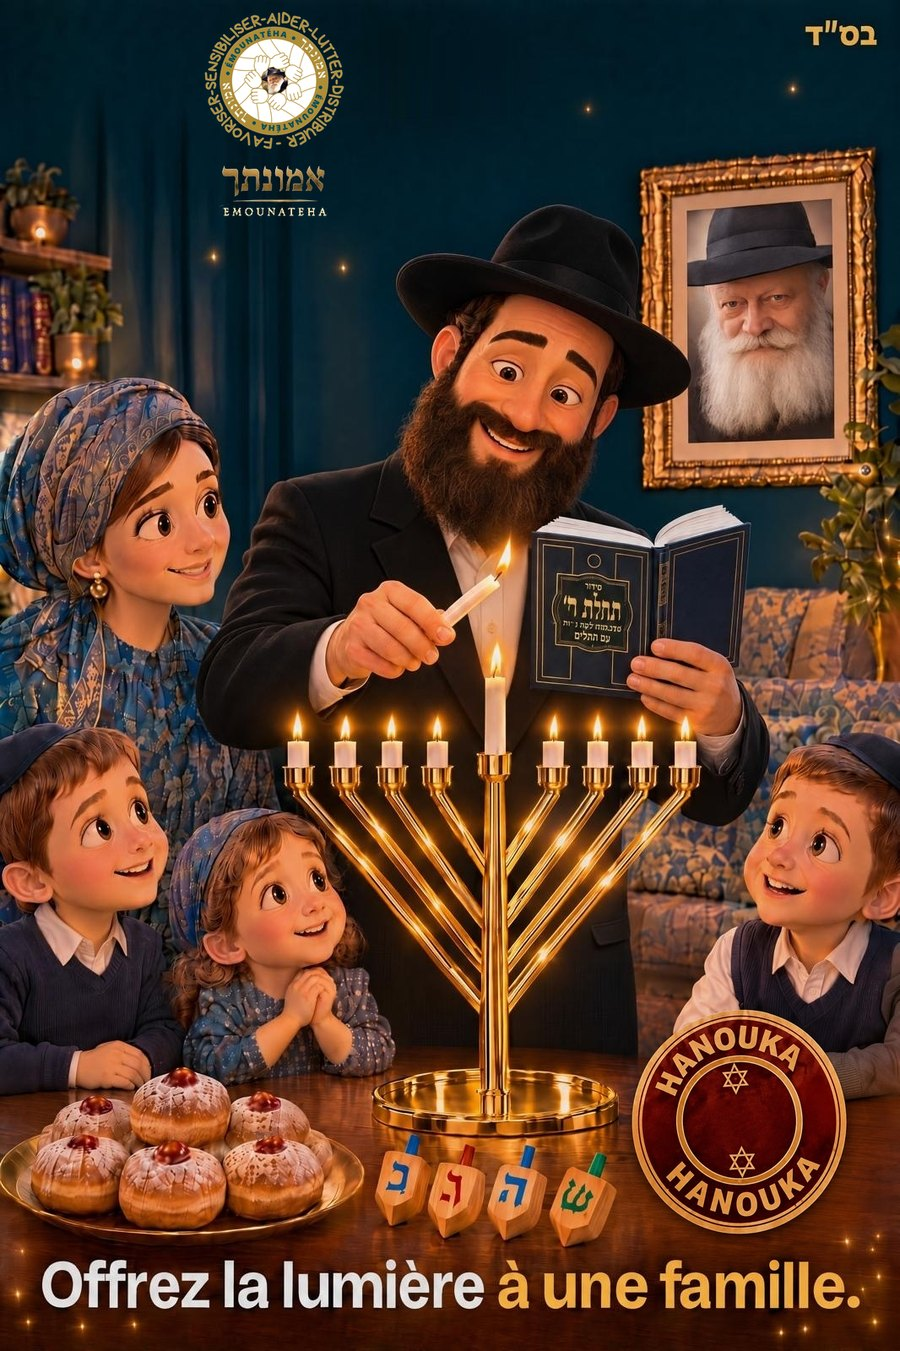
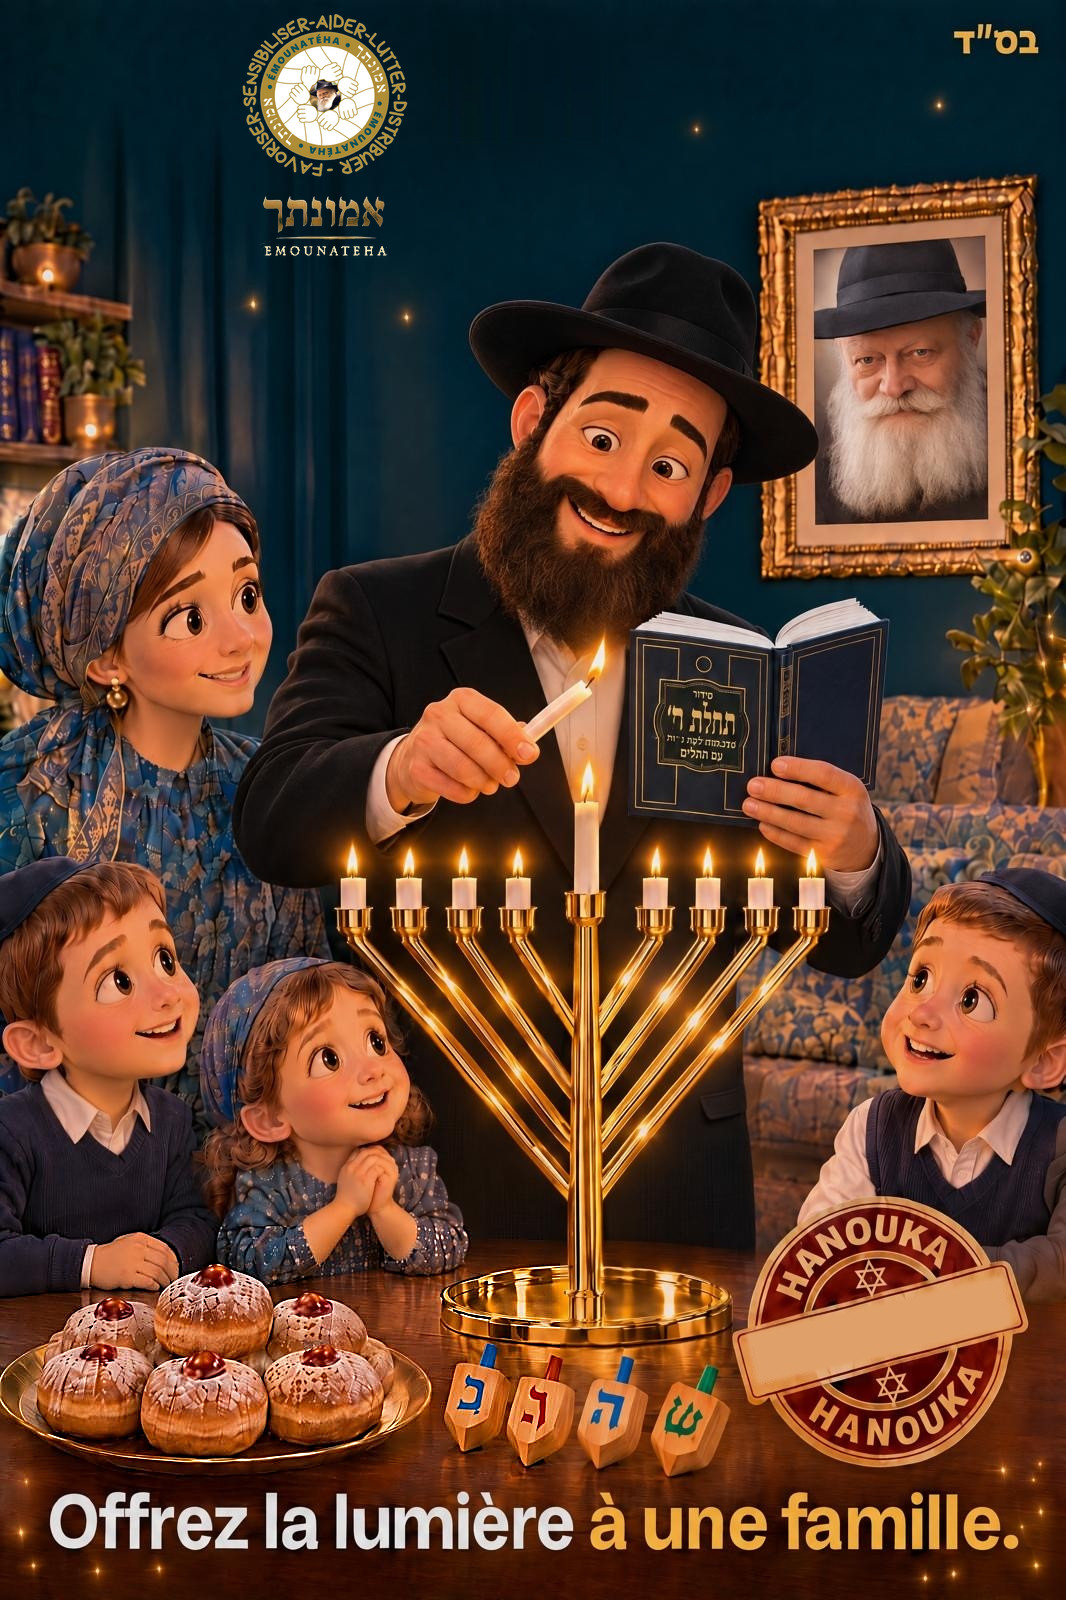
Accueil : section Parole du Rabbi sous les tuiles, banderole Hanouka, bandeau Hanouka aux couleurs du site, icônes Nos actions, flyer plus net, phrase en or
Claude-Session: https://claude.ai/code/session_01FdG1eh9xSuM3X7FBhgGd7p

diff --git a/public/hanouka-annonce.js b/public/hanouka-annonce.js
@@ -7,9 +7,14 @@ var cnt=d>1?'dans <b>'+d+' jours</b>':d===1?'<b>demain soir</b>':d===0?'<b>ce so
 var LINK='/hanouka-lp/';
 var css=document.createElement('style');
 css.textContent=
-'#hnband{display:flex;align-items:center;justify-content:center;gap:10px;flex-wrap:wrap;padding:9px 14px;background:linear-gradient(90deg,#10202b,#1b3140 50%,#10202b);color:#f3d58c;font:600 12px/1.3 Inter,system-ui,sans-serif;letter-spacing:.06em;text-align:center;text-decoration:none;position:sticky;top:0;z-index:120}'+
-'#hnband b{color:#fff;font-weight:700}#hnband u{text-decoration:none;border:1px solid rgba(243,213,140,.55);border-radius:99px;padding:3px 12px;color:#f3d58c}'+
-'#hnband svg{width:16px;height:16px;flex:none}'+
+'#hnband{display:flex;align-items:center;justify-content:center;gap:12px;flex-wrap:nowrap;padding:8px 14px;background:linear-gradient(rgba(22,76,82,.9),rgba(31,106,114,.86)),url(/header.jpg) center/cover #1f6a72;color:#fff;font:600 13px/1.2 Inter,system-ui,sans-serif;text-align:center;text-decoration:none;position:sticky;top:0;z-index:120;border-bottom:1px solid rgba(228,205,138,.7);box-shadow:0 2px 10px rgba(10,40,45,.25);overflow:hidden}'+
+'#hnband::after{content:"";position:absolute;top:0;bottom:0;width:60px;left:-80px;background:linear-gradient(100deg,transparent,rgba(255,255,255,.28),transparent);transform:skewX(-18deg);animation:hnsh 5.5s ease-in-out infinite;pointer-events:none}'+
+'@keyframes hnsh{0%,70%{left:-80px}100%{left:110%}}'+
+'#hnband .t{font:700 13px/1 Cinzel,Georgia,serif;letter-spacing:.1em;color:#e4cd8a;text-transform:uppercase;white-space:nowrap}'+
+'#hnband .c{font:500 13px/1 Inter,system-ui,sans-serif;color:#fff;white-space:nowrap}#hnband .c b{color:#e4cd8a;font-weight:700}'+
+'#hnband .m{width:22px;height:22px;flex:none}'+
+'#hnband u{text-decoration:none;white-space:nowrap;border-radius:99px;padding:6px 14px;background:linear-gradient(180deg,#e4cd8a,#c4a24a);color:#16393e;font:700 12px/1 Inter,system-ui,sans-serif;box-shadow:0 2px 8px rgba(0,0,0,.25)}'+
+'@media(max-width:420px){#hnband{gap:8px;padding:7px 10px}#hnband .t{font-size:11.5px;letter-spacing:.07em}#hnband .c{font-size:12px}#hnband u{padding:6px 11px;font-size:11.5px}#hnband .m{width:19px;height:19px}}'+
 '#hnov{position:fixed;inset:0;z-index:2000;display:flex;align-items:center;justify-content:center;padding:18px;background:rgba(8,14,20,.72);-webkit-backdrop-filter:blur(3px);backdrop-filter:blur(3px);opacity:0;transition:opacity .4s}'+
 '#hnov.on{opacity:1}'+
 '#hnc{position:relative;display:flex;flex-direction:column;align-items:center;gap:12px;max-height:94vh;transform:translateY(24px) scale(.95);transition:transform .55s cubic-bezier(.2,.8,.2,1)}'+
@@ -20,10 +25,10 @@ css.textContent=
 '#hnc .go{display:block;padding:13px 40px;border-radius:99px;background:linear-gradient(180deg,#f3d58c,#c9973f);color:#1b1407;font:700 13px/1 Inter,system-ui,sans-serif;letter-spacing:.08em;text-decoration:none;box-shadow:0 6px 20px rgba(201,151,63,.4)}'+
 '#hnc .x{position:absolute;top:-46px;right:0;width:36px;height:36px;border-radius:50%;border:0;background:#fff;color:#222;font-size:22px;line-height:36px;cursor:pointer;z-index:2;box-shadow:0 2px 10px rgba(0,0,0,.4)}';
 document.head.appendChild(css);
-var flame='<svg viewBox="0 0 24 24" fill="#f3d58c" aria-hidden="true"><path d="M12 2c1 3-2 4-2 7a3 3 0 0 0 6 0c0-1.2-.5-2-1-3 3 1.5 5 4 5 7.5A8 8 0 0 1 4 15.500C4 10 9 8 12 2z"/></svg>';
+var flame='<svg class="m" viewBox="0 0 32 32" aria-hidden="true"><g fill="#e4cd8a"><rect x="14.6" y="4" width="2.8" height="9" rx="1.2"/><rect x="3" y="9" width="2.2" height="6" rx="1"/><rect x="7.4" y="9" width="2.2" height="6" rx="1"/><rect x="11" y="9" width="2.2" height="6" rx="1"/><rect x="18.8" y="9" width="2.2" height="6" rx="1"/><rect x="22.4" y="9" width="2.2" height="6" rx="1"/><rect x="26.8" y="9" width="2.2" height="6" rx="1"/></g><g fill="#fff6d6"><ellipse cx="16" cy="2.6" rx="1.5" ry="2.2"/></g><path d="M3 16h26M16 14v10M10 28h12" stroke="#e4cd8a" stroke-width="2" fill="none" stroke-linecap="round"/><path d="M4 16c0 6 6 9 12 9s12-3 12-9" stroke="#e4cd8a" stroke-width="2" fill="none" stroke-linecap="round"/></svg>';
 /* bandeau permanent */
 var b=document.createElement('a');b.id='hnband';b.href=LINK;
-b.innerHTML=flame+'<span>Hanouka '+cnt+'</span><u>Offrir un colis</u>';
+b.innerHTML=flame+'<span class="t">Hanouka</span><span class="c">'+cnt+'</span><u>Offrir un colis</u>';
 function mountBand(){document.body.insertBefore(b,document.body.firstChild);
   /* bandeau toujours visible : la barre de menu se cale juste en dessous */
   function fit(){var n=document.querySelector('.sec-nav');if(n&&n.style)n.style.top=b.offsetHeight+'px'}
@@ -35,14 +40,26 @@ var stamp=d>1?'DANS '+d+' JOURS':d===1?'DEMAIN SOIR':d===0?'CE SOIR':'C’EST HA
 function open(){
   if(document.getElementById('hnov'))return;
   var o=document.createElement('div');o.id='hnov';o.setAttribute('role','dialog');o.setAttribute('aria-modal','true');o.setAttribute('aria-label','Affiche Hanouka 5787');
-  o.innerHTML='<div id="hnc"><button class="x" aria-label="Fermer" type="button">×</button><div class="fw"><img src="/hanouka/affiche.jpg?v=17" alt="Hanouka — Offrez la lumière à une famille"><span class="st" aria-hidden="true">'+stamp+'</span></div><a class="go" href="'+LINKDON+'">Je participe</a></div>';
+  o.innerHTML='<div id="hnc"><button class="x" aria-label="Fermer" type="button">×</button><div class="fw"><img src="/hanouka/affiche.jpg?v=19" alt="Hanouka — Offrez la lumière à une famille"><span class="st" aria-hidden="true">'+stamp+'</span></div><a class="go" href="'+LINKDON+'">Je participe</a></div>';
   document.body.appendChild(o);requestAnimationFrame(function(){requestAnimationFrame(function(){o.classList.add('on')})});
   function close(){o.classList.remove('on');setTimeout(function(){o.remove()},400);try{sessionStorage.setItem('hnseen','1')}catch(e){}}
   var im=o.querySelector('img'),st=o.querySelector('.st');function fit(){st.style.fontSize=(im.clientWidth*0.0325)+'px'}if(im.complete)fit();im.addEventListener('load',fit);window.addEventListener('resize',fit);
   o.querySelector('.x').onclick=close;o.addEventListener('click',function(e){if(e.target===o)close()});
   document.addEventListener('keydown',function k(e){if(e.key==='Escape'){close();document.removeEventListener('keydown',k)}});
 }
+window.hnOpen=open;
 b.addEventListener('click',function(e){e.preventDefault();open()});
+/* banderole Hanouka sous la citation du Rabbi */
+function mountBanner(){
+  var r=document.querySelector('.hero .quote');if(!r||document.getElementById('hnbanner'))return;
+  var st=document.createElement('style');
+  st.textContent='#hnbanner{display:block;order:9;width:min(100%,760px);margin:18px auto 0;border-radius:22px;overflow:hidden;box-shadow:0 10px 28px rgba(8,20,28,.35),0 0 0 1px rgba(243,213,140,.35);position:relative;z-index:2;-webkit-tap-highlight-color:transparent;transition:transform .2s}#hnbanner:active{transform:scale(.985)}html body .hero #hnbanner img{display:block;width:100%;height:auto;margin:0;filter:none;animation:none;max-width:none}@media(max-width:800px){#hnbanner{width:calc(100% - 4px);margin-top:16px;border-radius:18px}}';
+  document.head.appendChild(st);
+  var a=document.createElement('a');a.id='hnbanner';a.href='/don/';a.setAttribute('aria-label','Hanouka 5787 : offrez la lumière à une famille, colis de fête 130 euros');
+  a.innerHTML='<img src="/hanouka/banderole.jpg?v=2" alt="Hanouka 5787 — Offrez la lumière à une famille. Un colis de fête livré avant la première bougie. Pour 130 € · Émounatéha × AlloDons" width="1046" height="262" loading="eager">';
+  a.addEventListener('click',function(e){if(window.hnOpen){e.preventDefault();window.hnOpen()}});
+  r.parentNode.insertBefore(a,r.nextSibling)}
+if(document.readyState!=='loading')mountBanner();else document.addEventListener('DOMContentLoaded',mountBanner);
 try{if(sessionStorage.getItem('hnseen'))return}catch(e){}
 setTimeout(open,4500);
 })();

diff --git a/public/index.html b/public/index.html
@@ -477,9 +477,9 @@ body{overflow-x:hidden}
 </style>
 <link rel="stylesheet" href="/mobile.css">
 <link rel="stylesheet" href="/fade.css?v=3">
-<link rel="stylesheet" href="/typo.css?v=21">
+<link rel="stylesheet" href="/typo.css?v=25">
 <script src="/typo.js?v=5" defer></script>
-<script src="/hanouka-annonce.js?v=23" defer></script>
+<script src="/hanouka-annonce.js?v=30" defer></script>
 <script src="/wa-bouton.js?v=2" defer></script>
 </head>
 <body>
@@ -493,7 +493,6 @@ body{overflow-x:hidden}
     <div class="rule"></div>
     <p class="slogan">Sensibiliser · Aider · Lutter · Distribuer · Favoriser</p>
     <p class="quote">Accueillons Mashia'h avec des actes de bonté et de bienveillance&nbsp;!</p>
-    <blockquote class="rebbe">« Rien n'est jamais perdu. On peut toujours réparer. Celui qui est impur ou éloigné, même s'il est responsable d'un tel état de fait, même s'il l'a voulu, peut, malgré tout, réparer. »<cite>Rabbi de Loubavitch</cite></blockquote>
     <div class="btns">
       <a class="btn gold" href="/don/">Aidez-nous à les aider</a>
       <a class="btn line" href="#actions">Nos actions</a>
@@ -507,6 +506,7 @@ body{overflow-x:hidden}
   <a href="/horaires/"><img class="qi" src="/tuiles/horaires.png?v=3" alt="" width="40" height="40" loading="eager"><span>Horaires<small>Chabbat, 54 villes</small></span></a>
   <a href="https://wa.me/33669670770" target="_blank" rel="noopener"><img class="qi" src="/tuiles/ecrire.png?v=3" alt="" width="40" height="40" loading="eager"><span>Nous écrire<small>Sur WhatsApp</small></span></a>
 </div></section>
+<section class="parole" id="parole" aria-label="Parole du Rabbi"><div class="wrap"><h2>Parole du Rabbi</h2><div class="gline"></div><blockquote class="rebbe">« Rien n'est jamais perdu. On peut toujours réparer. Celui qui est impur ou éloigné, même s'il est responsable d'un tel état de fait, même s'il l'a voulu, peut, malgré tout, réparer. »<cite>Rabbi de Loubavitch</cite></blockquote></div></section>
 <section class="parsec" id="paracha" hidden><div class="wrap"><div class="parcard" id="parcard">
   <div class="pk"><svg class="torah" viewBox="0 0 64 64" aria-hidden="true"><g fill="none" stroke="#c4a24a" stroke-width="2.6" stroke-linecap="round" stroke-linejoin="round"><rect x="10" y="12" width="9" height="40" rx="4.5" fill="#c4a24a"/><rect x="45" y="12" width="9" height="40" rx="4.5" fill="#c4a24a"/><path d="M14.5 12V7M14.5 52v5M49.5 12V7M49.5 52v5"/><path d="M19 16h26v32H19z" fill="#fff"/><path d="M25 24h14M25 30h14M25 36h10" stroke="#1f6a72"/></g><circle cx="14.5" cy="6" r="2.6" fill="#e4cd8a"/><circle cx="49.5" cy="6" r="2.6" fill="#e4cd8a"/></svg><div><span class="plab">Paracha de la semaine</span><b id="parname">…</b><small id="parheb" dir="rtl"></small></div></div>
   <div class="pt"><span class="plab">Entrée du Chabbat</span><b id="parin">…</b><small id="parinday"></small></div>
@@ -530,10 +530,10 @@ body{overflow-x:hidden}
     <div class="slider">
       <div class="slides" id="slides">
         <div class="slide" data-t="Nos actions" data-s="Un accompagnement concret, du premier repas jusqu'au retour à l'autonomie."><div class="wrap"><div class="grid">
-      <div class="card"><div class="ic"><svg viewBox="0 0 24 24" width="26" height="26" fill="none" stroke="currentColor" stroke-width="1.8" stroke-linecap="round" stroke-linejoin="round" aria-hidden="true"><path d="M16 21v-2a4 4 0 0 0-4-4H6a4 4 0 0 0-4 4v2"/><circle cx="9" cy="7" r="4"/><path d="M22 21v-2a4 4 0 0 0-3-3.87"/><path d="M16 3.13a4 4 0 0 1 0 7.75"/></svg></div><h3>Réinsertion sociale</h3><p>Un suivi personnalisé pour retrouver un équilibre et une place dans la société.</p></div>
-      <div class="card"><div class="ic"><svg viewBox="0 0 24 24" width="26" height="26" fill="none" stroke="currentColor" stroke-width="1.8" stroke-linecap="round" stroke-linejoin="round" aria-hidden="true"><path d="M20.38 3.46 16 2a4 4 0 0 1-8 0L3.62 3.46a2 2 0 0 0-1.34 2.23l.58 3.47a1 1 0 0 0 .99.84H6v10c0 1.1.9 2 2 2h8a2 2 0 0 0 2-2V10h2.15a1 1 0 0 0 .99-.84l.58-3.47a2 2 0 0 0-1.34-2.23z"/></svg></div><h3>Vêtements &amp; soins</h3><p>De nouveaux vêtements, une coiffure : se sentir bien pour repartir du bon pied.</p></div>
-      <div class="card"><div class="ic"><svg viewBox="0 0 24 24" width="26" height="26" fill="none" stroke="currentColor" stroke-width="1.8" stroke-linecap="round" stroke-linejoin="round" aria-hidden="true"><path d="M15 21v-8a1 1 0 0 0-1-1h-4a1 1 0 0 0-1 1v8"/><path d="M3 10a2 2 0 0 1 .709-1.528l7-5.999a2 2 0 0 1 2.582 0l7 5.999A2 2 0 0 1 21 10v9a2 2 0 0 1-2 2H5a2 2 0 0 1-2-2z"/></svg></div><h3>Un toit sur la tête</h3><p>Aider à trouver un logement et à sortir de la rue durablement.</p></div>
-      <div class="card"><div class="ic"><svg viewBox="0 0 24 24" width="26" height="26" fill="none" stroke="currentColor" stroke-width="1.8" stroke-linecap="round" stroke-linejoin="round" aria-hidden="true"><path d="M19 14c1.49-1.46 3-3.21 3-5.5A5.5 5.5 0 0 0 16.5 3c-1.76 0-3 .5-4.5 2-1.5-1.5-2.74-2-4.5-2A5.5 5.5 0 0 0 2 8.5c0 2.3 1.5 4.05 3 5.5l7 7Z"/></svg></div><h3>Soutien moral &amp; financier</h3><p>Une écoute, un accompagnement et une aide matérielle quand c'est le plus difficile.</p></div>
+      <div class="card"><div class="ic"><img src="/tuiles/act-reinsertion.png?v=1" alt="" width="48" height="48" loading="lazy"></div><h3>Réinsertion sociale</h3><p>Un suivi personnalisé pour retrouver un équilibre et une place dans la société.</p></div>
+      <div class="card"><div class="ic"><img src="/tuiles/act-vetements.png?v=1" alt="" width="48" height="48" loading="lazy"></div><h3>Vêtements &amp; soins</h3><p>De nouveaux vêtements, une coiffure : se sentir bien pour repartir du bon pied.</p></div>
+      <div class="card"><div class="ic"><img src="/tuiles/act-toit.png?v=1" alt="" width="48" height="48" loading="lazy"></div><h3>Un toit sur la tête</h3><p>Aider à trouver un logement et à sortir de la rue durablement.</p></div>
+      <div class="card"><div class="ic"><img src="/tuiles/act-soutien.png?v=1" alt="" width="48" height="48" loading="lazy"></div><h3>Soutien moral &amp; financier</h3><p>Une écoute, un accompagnement et une aide matérielle quand c'est le plus difficile.</p></div>
     </div></div></div>
       </div>
       

diff --git a/public/typo.css b/public/typo.css
@@ -34,3 +34,16 @@ html body .pagehead h1{line-height:1.2;letter-spacing:.05em;font-size:clamp(22px
 @media(max-width:800px){
   html body .qa a .qi{width:40px;height:40px;object-fit:contain;flex:none;filter:drop-shadow(0 2px 3px rgba(120,90,30,.25))}
 }
+/* Nos actions : icônes 3D Pixar (couleurs du site) */
+html body #actions .card .ic{background:none;width:auto;height:auto;border-radius:0;display:block;margin-bottom:8px}
+html body #actions .card .ic img{display:block;width:56px;height:56px;object-fit:contain;filter:drop-shadow(0 2px 3px rgba(120,90,30,.22))}
+@media(max-width:800px){html body #actions .card .ic img{width:44px;height:44px}}
+/* « Accueillons Mashia'h… » en or */
+html body .hero .quote{font-family:'Cinzel',Georgia,serif;font-weight:700;letter-spacing:.06em;color:#c4a24a;font-size:clamp(13px,1.7vw,17px);line-height:1.5;text-shadow:0 2px 10px rgba(0,0,0,.25)}
+@media(max-width:800px){html body .hero .quote{font-size:12.5px;letter-spacing:.04em}}
+/* Section « Parole du Rabbi » (sous les tuiles) */
+html body .parole{padding:26px 0 6px;text-align:center}
+html body .parole h2{font-size:clamp(20px,5.4vw,26px);margin:0 0 8px;color:var(--teal)}
+html body .parole .gline{width:64px;height:3px;border-radius:3px;margin:0 auto 14px;background:linear-gradient(90deg,var(--gold),var(--gold-l),var(--gold))}
+html body .parole .rebbe{max-width:640px;margin:0 auto;padding:18px 20px;border-radius:18px;background:rgba(255,255,255,.82);border:1px solid rgba(196,162,74,.45);box-shadow:0 6px 18px rgba(20,60,66,.08);color:#1b3a3f;font-size:clamp(15px,4.2vw,17px);line-height:1.6;opacity:1}
+html body .parole .rebbe cite{color:#a8842a;font-size:12px;margin-top:10px}

diff --git a/public/cgv/index.html b/public/cgv/index.html
@@ -14,7 +14,7 @@ footer{text-align:center;color:#6b8184;font-size:13px;padding:24px}
   *::-webkit-scrollbar{display:none;width:0;height:0}
 }
 </style><link rel="stylesheet" href="/fade.css?v=3">
-<link rel="stylesheet" href="/typo.css?v=21">
+<link rel="stylesheet" href="/typo.css?v=25">
 <script src="/typo.js?v=5" defer></script>
 <script src="/wa-bouton.js?v=2" defer></script>
 </head>

diff --git a/public/mentions-legales/index.html b/public/mentions-legales/index.html
@@ -14,7 +14,7 @@ footer{text-align:center;color:#6b8184;font-size:13px;padding:24px}
   *::-webkit-scrollbar{display:none;width:0;height:0}
 }
 </style><link rel="stylesheet" href="/fade.css?v=3">
-<link rel="stylesheet" href="/typo.css?v=21">
+<link rel="stylesheet" href="/typo.css?v=25">
 <script src="/typo.js?v=5" defer></script>
 <script src="/wa-bouton.js?v=2" defer></script>
 </head>

diff --git a/public/colis/index.html b/public/colis/index.html
@@ -377,7 +377,7 @@ body{overflow-x:hidden}
 </style>
 <link rel="stylesheet" href="/mobile.css">
 <link rel="stylesheet" href="/fade.css?v=3">
-<link rel="stylesheet" href="/typo.css?v=21">
+<link rel="stylesheet" href="/typo.css?v=25">
 <script src="/typo.js?v=5" defer></script>
 <script src="/wa-bouton.js?v=2" defer></script>
 </head>

diff --git a/public/don/index.html b/public/don/index.html
@@ -366,7 +366,7 @@ body{overflow-x:hidden}
 </style>
 <link rel="stylesheet" href="/mobile.css">
 <link rel="stylesheet" href="/fade.css?v=3">
-<link rel="stylesheet" href="/typo.css?v=21">
+<link rel="stylesheet" href="/typo.css?v=25">
 <script src="/typo.js?v=5" defer></script>
 <script src="/wa-bouton.js?v=2" defer></script>
 </head>

diff --git a/public/horaires/index.html b/public/horaires/index.html
@@ -450,7 +450,7 @@ body{overflow-x:hidden}
 </style>
 <link rel="stylesheet" href="/mobile.css">
 <link rel="stylesheet" href="/fade.css?v=3">
-<link rel="stylesheet" href="/typo.css?v=21">
+<link rel="stylesheet" href="/typo.css?v=25">
 <script src="/typo.js?v=5" defer></script>
 <script src="/wa-bouton.js?v=2" defer></script>
 </head>

diff --git a/public/torah/index.html b/public/torah/index.html
@@ -414,7 +414,7 @@ body{overflow-x:hidden}
 </style>
 <link rel="stylesheet" href="/mobile.css">
 <link rel="stylesheet" href="/fade.css?v=3">
-<link rel="stylesheet" href="/typo.css?v=21">
+<link rel="stylesheet" href="/typo.css?v=25">
 <script src="/typo.js?v=5" defer></script>
 <script src="/wa-bouton.js?v=2" defer></script>
 </head>
